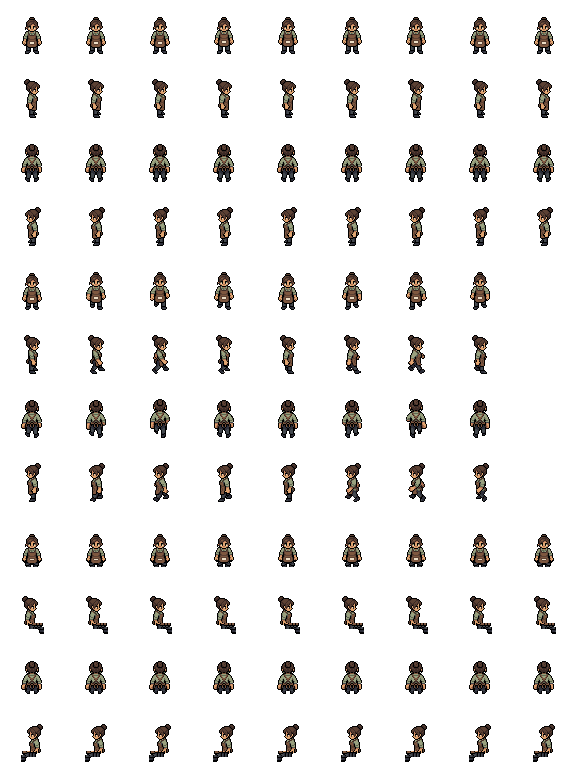
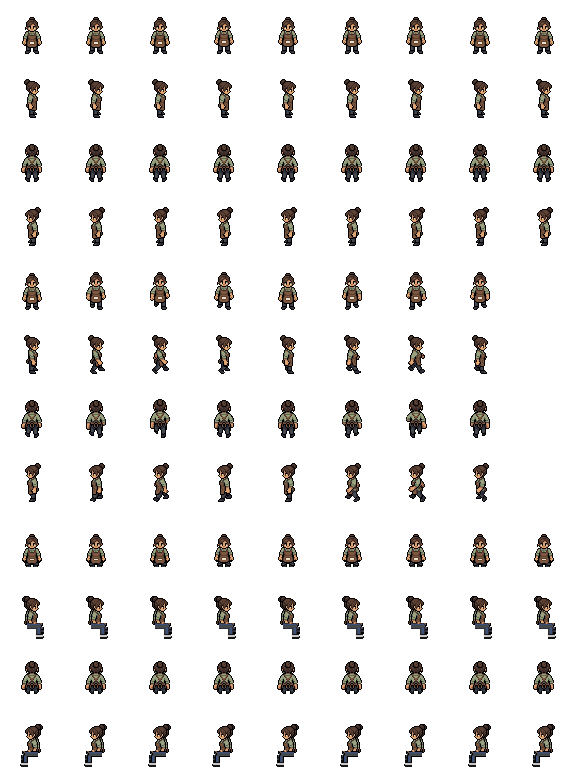
benerin atasan sm duduk

diff --git a/src/lib/lpcCompositor.ts b/src/lib/lpcCompositor.ts
@@ -571,31 +571,102 @@ export async function generateFullLpcSpritesheet(
         }
       }
     } else if (dir === 'east') {
-      for (let y = 0; y <= 44; y++) {
+      // Sitting profile facing EAST
+      // 1. Lower Head, Hair, Neck & Torso by 5px (standing torso up to y=42)
+      for (let y = 0; y <= 42; y++) {
         for (let x = 0; x < 64; x++) {
           const p = getPixel(x, y);
-          if (p[3] > 10) setPixel(x, y + 6, p);
+          if (p[3] > 10) setPixel(x, y + 5, p);
         }
       }
-      for (let y = 44; y <= 50; y++) {
-        for (let x = 26; x <= 38; x++) {
+
+      // Sample pants and shoe tones from the standing sprite
+      let pantsOutline = [20, 20, 25, 255];
+      let pantsBase = [45, 60, 95, 255];
+      let pantsLight = [60, 80, 125, 255];
+      let shoeOutline = [20, 20, 20, 255];
+      let shoeBase = [200, 200, 200, 255];
+
+      for (let y = 47; y <= 52; y++) {
+        for (let x = 28; x <= 34; x++) {
           const p = getPixel(x, y);
-          if (p[3] > 10) {
-            setPixel(x + 2, y + 5, p);
-            setPixel(x + 4, y + 5, p);
-            setPixel(x + 6, y + 5, p);
-            setPixel(x + 2, y + 6, p);
-            setPixel(x + 4, y + 6, p);
-            setPixel(x + 6, y + 6, p);
+          if (p[3] > 150) {
+            const br = (p[0] + p[1] + p[2]) / 3;
+            if (br < 50) pantsOutline = p;
+            else if (br < 110) pantsBase = p;
+            else pantsLight = p;
           }
         }
       }
-      for (let y = 50; y < 64; y++) {
-        for (let x = 28; x <= 38; x++) {
+      for (let y = 58; y <= 62; y++) {
+        for (let x = 30; x <= 36; x++) {
           const p = getPixel(x, y);
-          if (p[3] > 10) setPixel(x + 6, y, p);
+          if (p[3] > 150) {
+            const br = (p[0] + p[1] + p[2]) / 3;
+            if (br < 40) shoeOutline = p;
+            else shoeBase = p;
+          }
         }
       }
+
+      // Waist connection
+      for (let x = 27; x <= 36; x++) {
+        const p = getPixel(x, 42);
+        if (p[3] > 10) setPixel(x, 47, p);
+      }
+
+      // 2. Horizontal Thigh extending to the right (x: 27..39, y: 47..52)
+      for (let x = 27; x <= 39; x++) {
+        setPixel(x, 47, pantsOutline);
+        setPixel(x, 48, pantsLight);
+        setPixel(x, 49, pantsBase);
+        setPixel(x, 50, pantsBase);
+        setPixel(x, 51, pantsBase);
+        setPixel(x, 52, pantsOutline);
+      }
+      setPixel(40, 48, pantsOutline);
+      setPixel(40, 49, pantsLight);
+      setPixel(40, 50, pantsBase);
+      setPixel(40, 51, pantsOutline);
+
+      // 3. Vertical Calf descending from knee (x: 36..40, y: 52..57)
+      for (let y = 52; y <= 57; y++) {
+        setPixel(36, y, pantsOutline);
+        setPixel(37, y, pantsBase);
+        setPixel(38, y, pantsLight);
+        setPixel(39, y, pantsLight);
+        setPixel(40, y, pantsOutline);
+      }
+
+      // 4. Shoe planted flat on floor (x: 36..43, y: 58..62)
+      for (let x = 36; x <= 42; x++) {
+        setPixel(x, 58, shoeOutline);
+        setPixel(x, 59, shoeBase);
+        setPixel(x, 60, shoeBase);
+        setPixel(x, 61, shoeOutline);
+        setPixel(x, 62, shoeOutline);
+      }
+      setPixel(43, 60, shoeOutline);
+      setPixel(43, 61, shoeOutline);
+
+      // 5. Hand resting on lap (x: 33..36, y: 46..47)
+      let skinTone = [210, 160, 130, 255];
+      let skinOutline = [120, 80, 60, 255];
+      for (let y = 43; y <= 46; y++) {
+        for (let x = 30; x <= 34; x++) {
+          const p = getPixel(x, y);
+          if (p[0] > 140 && p[1] > 90 && p[2] < 120 && p[3] > 150) {
+            skinTone = p;
+          }
+        }
+      }
+      setPixel(33, 46, skinOutline);
+      setPixel(34, 46, skinTone);
+      setPixel(35, 46, skinTone);
+      setPixel(36, 46, skinOutline);
+      setPixel(33, 47, skinOutline);
+      setPixel(34, 47, skinTone);
+      setPixel(35, 47, skinOutline);
     } else if (dir === 'north') {
       for (let y = 0; y <= 45; y++) {
         for (let x = 0; x < 64; x++) {
@@ -610,31 +681,100 @@ export async function generateFullLpcSpritesheet(
         }
       }
     } else if (dir === 'west') {
-      for (let y = 0; y <= 44; y++) {
+      // Sitting profile facing WEST
+      // 1. Lower Head, Hair, Neck & Torso by 5px
+      for (let y = 0; y <= 42; y++) {
         for (let x = 0; x < 64; x++) {
           const p = getPixel(x, y);
-          if (p[3] > 10) setPixel(x, y + 6, p);
+          if (p[3] > 10) setPixel(x, y + 5, p);
         }
       }
-      for (let y = 44; y <= 50; y++) {
-        for (let x = 26; x <= 38; x++) {
+
+      let pantsOutline = [20, 20, 25, 255];
+      let pantsBase = [45, 60, 95, 255];
+      let pantsLight = [60, 80, 125, 255];
+      let shoeOutline = [20, 20, 20, 255];
+      let shoeBase = [200, 200, 200, 255];
+
+      for (let y = 47; y <= 52; y++) {
+        for (let x = 30; x <= 36; x++) {
           const p = getPixel(x, y);
-          if (p[3] > 10) {
-            setPixel(x - 2, y + 5, p);
-            setPixel(x - 4, y + 5, p);
-            setPixel(x - 6, y + 5, p);
-            setPixel(x - 2, y + 6, p);
-            setPixel(x - 4, y + 6, p);
-            setPixel(x - 6, y + 6, p);
+          if (p[3] > 150) {
+            const br = (p[0] + p[1] + p[2]) / 3;
+            if (br < 50) pantsOutline = p;
+            else if (br < 110) pantsBase = p;
+            else pantsLight = p;
           }
         }
       }
-      for (let y = 50; y < 64; y++) {
-        for (let x = 26; x <= 36; x++) {
+      for (let y = 58; y <= 62; y++) {
+        for (let x = 28; x <= 34; x++) {
           const p = getPixel(x, y);
-          if (p[3] > 10) setPixel(x - 6, y, p);
+          if (p[3] > 150) {
+            const br = (p[0] + p[1] + p[2]) / 3;
+            if (br < 40) shoeOutline = p;
+            else shoeBase = p;
+          }
         }
       }
+
+      for (let x = 28; x <= 37; x++) {
+        const p = getPixel(x, 42);
+        if (p[3] > 10) setPixel(x, 47, p);
+      }
+
+      // 2. Horizontal Thigh extending to the left (x: 25..37, y: 47..52)
+      for (let x = 25; x <= 37; x++) {
+        setPixel(x, 47, pantsOutline);
+        setPixel(x, 48, pantsLight);
+        setPixel(x, 49, pantsBase);
+        setPixel(x, 50, pantsBase);
+        setPixel(x, 51, pantsBase);
+        setPixel(x, 52, pantsOutline);
+      }
+      setPixel(23, 48, pantsOutline);
+      setPixel(23, 49, pantsLight);
+      setPixel(23, 50, pantsBase);
+      setPixel(23, 51, pantsOutline);
+
+      // 3. Vertical Calf descending (x: 23..27, y: 52..57)
+      for (let y = 52; y <= 57; y++) {
+        setPixel(23, y, pantsOutline);
+        setPixel(24, y, pantsLight);
+        setPixel(25, y, pantsLight);
+        setPixel(26, y, pantsBase);
+        setPixel(27, y, pantsOutline);
+      }
+
+      // 4. Shoe planted flat on floor (x: 21..28, y: 58..62)
+      for (let x = 21; x <= 27; x++) {
+        setPixel(x, 58, shoeOutline);
+        setPixel(x, 59, shoeBase);
+        setPixel(x, 60, shoeBase);
+        setPixel(x, 61, shoeOutline);
+        setPixel(x, 62, shoeOutline);
+      }
+      setPixel(20, 60, shoeOutline);
+      setPixel(20, 61, shoeOutline);
+
+      // 5. Hand resting on lap (x: 27..30, y: 46..47)
+      let skinTone = [210, 160, 130, 255];
+      let skinOutline = [120, 80, 60, 255];
+      for (let y = 43; y <= 46; y++) {
+        for (let x = 30; x <= 34; x++) {
+          const p = getPixel(x, y);
+          if (p[0] > 140 && p[1] > 90 && p[2] < 120 && p[3] > 150) {
+            skinTone = p;
+          }
+        }
+      }
+      setPixel(27, 46, skinOutline);
+      setPixel(28, 46, skinTone);
+      setPixel(29, 46, skinTone);
+      setPixel(30, 46, skinOutline);
+      setPixel(28, 47, skinOutline);
+      setPixel(29, 47, skinTone);
+      setPixel(30, 47, skinOutline);
     }
 
     fCtx.putImageData(sitData, 0, 0);

diff --git a/src/game/scenes/OfficeScene.ts b/src/game/scenes/OfficeScene.ts
@@ -58,7 +58,7 @@ const TODO_POS = { x: 1450, y: 140 };
 
 // NPC spawn positions per official specification
 const NPC_POSITIONS = {
-  rina: { x: 2150, y: 175 },   // Ruang Eksekutif & Manajemen (Bu Rina di meja eksekutif)
+  rina: { x: 2150, y: 172 },   // Ruang Eksekutif & Manajemen (Bu Rina di meja eksekutif)
   dimas: { x: 580, y: 270 },   // Pantry & Dapur (Skenario 2)
   klien: { x: 920, y: 640 },   // Ruang Rapat & Konferensi (Pak Hendra di sudut dalam dekat credenza/dispenser)
 } as const;
@@ -797,15 +797,15 @@ export class OfficeScene extends Phaser.Scene {
     this.addSolidProp('cafe-table', 340, 320, 56, 52);
     this.addDecorativeProp('cafe-chair', 280, 320);
     this.addDecorativeProp('cafe-chair', 400, 320);
-    this.addSeat('Kursi Kafe', 280, 320, 'east', 'chair', 4, 0);
-    this.addSeat('Kursi Kafe', 400, 320, 'west', 'chair', -4, 0);
+    this.addSeat('Kursi Kafe', 280, 320, 'east', 'chair', -4, 0);
+    this.addSeat('Kursi Kafe', 400, 320, 'west', 'chair', 4, 0);
 
     this.addDecorativeProp('rug', 650, 330);
     this.addSolidProp('cafe-table', 650, 320, 56, 52);
     this.addDecorativeProp('cafe-chair', 590, 320);
     this.addDecorativeProp('cafe-chair', 710, 320);
-    this.addSeat('Kursi Kafe', 590, 320, 'east', 'chair', 4, 0);
-    this.addSeat('Kursi Kafe', 710, 320, 'west', 'chair', -4, 0);
+    this.addSeat('Kursi Kafe', 590, 320, 'east', 'chair', -4, 0);
+    this.addSeat('Kursi Kafe', 710, 320, 'west', 'chair', 4, 0);
 
     // Refreshment & Greenery (tucked against perimeter)
     this.addSolidProp('water-cooler', 960, 200, 52, 52);
@@ -903,8 +903,8 @@ export class OfficeScene extends Phaser.Scene {
     this.addSolidProp('cafe-table', 420, 1290, 56, 52);
     this.addDecorativeProp('cafe-chair', 345, 1290);
     this.addDecorativeProp('cafe-chair', 495, 1290);
-    this.addSeat('Kursi Kafe Santai Kiri', 345, 1290, 'east', 'chair', 4, 0);
-    this.addSeat('Kursi Kafe Santai Kanan', 495, 1290, 'west', 'chair', -4, 0);
+    this.addSeat('Kursi Kafe Santai Kiri', 345, 1290, 'east', 'chair', -4, 0);
+    this.addSeat('Kursi Kafe Santai Kanan', 495, 1290, 'west', 'chair', 4, 0);
     this.addSolidProp('plant-large', 160, 1315, 50, 50);
     this.addDecorativeProp('floor-lamp', 240, 1315);
 
@@ -937,7 +937,7 @@ export class OfficeScene extends Phaser.Scene {
     this.addDecorativeProp('plant-small', 2225, 215);
 
     // Kursi Eksekutif Bu Rina di belakang meja utama menghadap South
-    this.addDecorativeProp('office-chair', 2150, 166);
+    this.addDecorativeProp('office-chair', 2150, 155).setDepth(150);
 
     // Kursi Tamu di depan meja utama menghadap ke Bu Rina
     this.addSolidProp('armchair-north', 2105, 335, 58, 52);  // Guest Chair 1
@@ -1280,8 +1280,13 @@ export class OfficeScene extends Phaser.Scene {
       .setSize(26, 20)
       .setOffset(19, 44);
 
-    sprite.play(`${spriteKey}-idle-south`);
-    sprite.setDepth((sprite.body as Phaser.Physics.Arcade.Body).bottom);
+    if (id === 'rina') {
+      sprite.play(`${spriteKey}-sit-south`);
+      sprite.setDepth(210);
+    } else {
+      sprite.play(`${spriteKey}-idle-south`);
+      sprite.setDepth((sprite.body as Phaser.Physics.Arcade.Body).bottom);
+    }
 
     this.npcs.push({ id, name, role, sprite, scenarioId });
   }
@@ -1341,7 +1346,8 @@ export class OfficeScene extends Phaser.Scene {
         npc.sprite.y
       );
 
-      if (dist < NPC_INTERACT_DIST) {
+      const maxDist = npc.id === 'rina' ? 175 : NPC_INTERACT_DIST;
+      if (dist < maxDist) {
         this.activeNpcNear = npc;
         break;
       }
